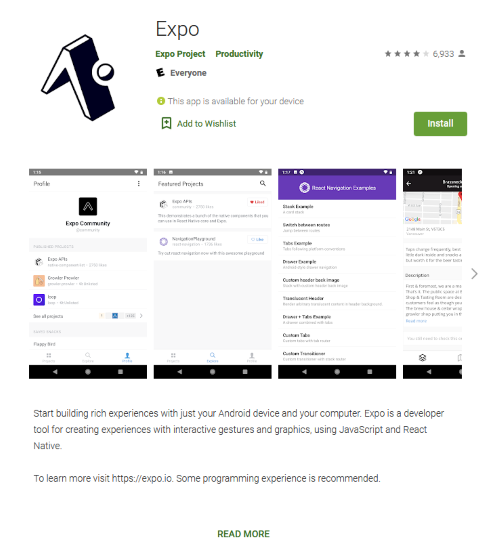
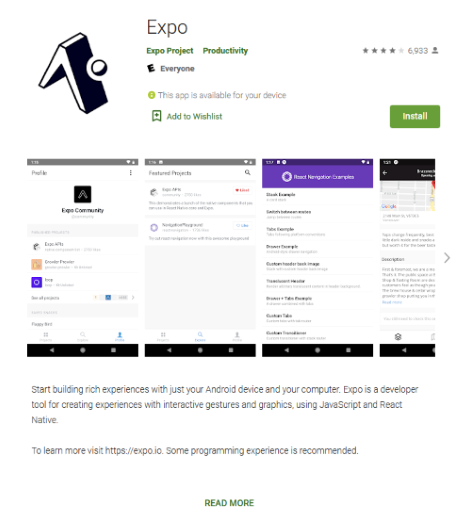
Fixed some formatting and resized images slightly

diff --git a/README.md b/README.md
@@ -2,10 +2,10 @@
 
 ## A React Native Mobile Application
 
-### Github Repo
+## Github Repo
 - [Link to the mobile front end for Bubble App](https://github.com/revature-bubble-mobile/Mobile)
 
-### Installations
+## Installations
 1. Install Node Package Manager to your local machine
     ```
     npm install -g npm
@@ -15,17 +15,17 @@
     npm install -g expo-cli
     ```
 3. Install Expo on mobile device from Google PlayStore on Android, or Apple AppStore on iOS (iOS version is named Expo Go)
-    #### ***Optional if you don't want to use an emulator***
+    ### ***Required if you don't want to use the emulator installation below***
     #### Google Playstore Version:
     ![Google Playstore](screenshots\expo_playstore1.png)
     #### Apple AppStore Version:
     ![Apple Appstore](screenshots\expogo_appstore1.png)
 
 4. Install Android Studio on Local Machine
-    #### ***Optional if you don't want to use Expo Mobile App***
+    ### ***Required if you don't want to use Expo Mobile App installation above***
     - [Download Android Studio](https://developer.android.com/studio) from this link
     - Run the downloaded file and follow installation instructions
-### Steps
+## Steps
 
 1. Clone repo from link above onto your local machine
     ```
@@ -38,7 +38,7 @@
     expo start
     ```
 
-### How to use Expo CLI with Expo Mobile App (**Mobile and Local machine on same network**)
+## How to use Expo CLI with Expo Mobile App (**Mobile Device and Local machine on same network**)
 1. Open a terminal in either VScode or from the project directory
 2. Start the app with either command:
     ```
@@ -58,7 +58,7 @@
 
 5. Your camera will open. Scan the QR code in the terminal and wait for the bundling to complete, and the app should open on your mobile device!
 
-### How to use Expo CLI with Expo Mobile App (**Mobile and Local machine on different networks**)
+## How to use Expo CLI with Expo Mobile App (**Mobile Device and Local machine on different networks**)
 1. Open a terminal in either VScode or from the project directory
 2. Start the app with either command:
     ```
@@ -88,7 +88,7 @@
 9. Scan the QR Code in the dev tools window with the Expo Mobile App and the application should open on the mobile device.
     - *This QR code can be scanned by others through a screenshare as well, as the connection is now public through ngrok*
 
-### How to use Expo CLI with Android Studio Emulator
+## How to use Expo CLI with Android Studio Emulator
 1. Open a terminal in either VScode or from the project directory
 2. Start the app with either command:
     ```
